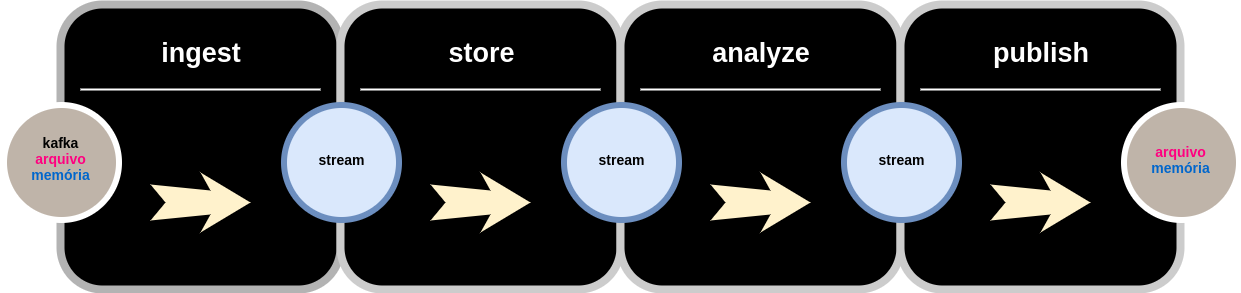
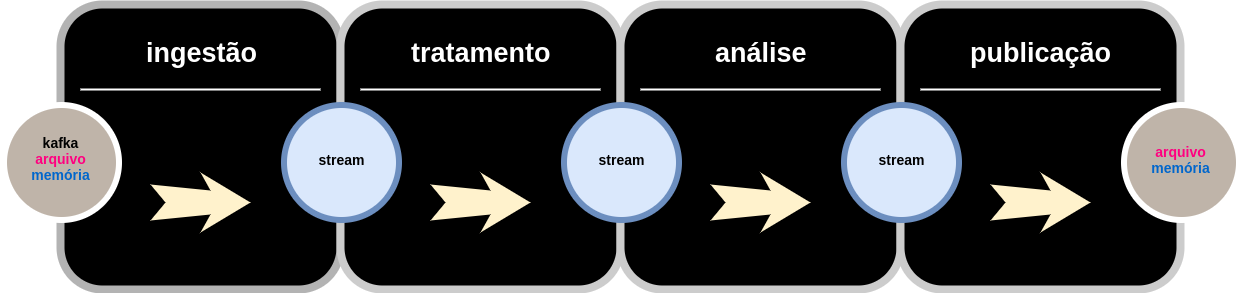
Reorder

diff --git a/editaveis/4_project.tex b/editaveis/4_project.tex
@@ -107,23 +107,25 @@ mas caso seja desejado o uso de outra estratégia, basta implementar um novo
 
 A Figura \ref{fig:shock} ilustra o uso do Shock, utilizando como exemplo uma
 aplicação de cidades inteligentes desenvolvida pelo time do
-InterSCity\footnote{\url{https://gitlab.com/smart-city-software-platform/external-resources/tree/master/bus}}.
-Essa aplicação disponibiliza as coordenadas, o tempo, o índice e a linha de
+InterSCity\footnote{\url{https://gitlab.com/smart-city-software-platform/external-resources/tree/master/bus}},
+que disponibiliza dados como as coordenadas, o tempo, o índice e a linha de
 alguns ônibus de São Paulo. Imaginando que seja desejado a criação de uma nova
 informação a partir dos dados dos ônibus, como a \textit{velocidade}, o fluxo
 de uso com o Shock poderia ser: (1) um cliente que deseje utilizar o serviço
-de processamentos do InterScity analisa as funções que o Shock disponibiliza
-para criação do \textit{stream}, e constrói o \textit{stream} desejado através
-dessas funções - via Kafka. Os recursos IoT (3) publicam no Resource Adaptor a
-chegada de novos dados de ônibus. O Resource Adaptor (4) publica os novos dados
-em um tópico específico no Kafka para que sejam recebidos pelo Shock, que os (5)
-recebe nos \textit{streams} configurados para ingerir dados naquele tópico, e
-os processa através do \textit{pipeline} construído no Passo 2. Por fim, após o
+de processamentos do InterSCity analisa as funções que o Shock disponibiliza
+para criação do \textit{stream}, e (2) constrói o \textit{stream} desejado através
+dessas funções, via Kafka. Os recursos IoT (3) publicam no Resource Adaptor a
+chegada de novos dados de ônibus, para que esses dados sejam (4) publicados em
+um tópico específico do Kafka pelo Resource Adaptor. Após serem disponibilizados
+no Kafka, os dados ficam disponíveis para serem utilizados pelo Shock, que os (5)
+recebe nos \textit{streams} configurados para ingerir dados, e os processa
+através do \textit{pipeline} construído no Passo 2. Por fim, após o
 processamento dos dados, o Shock pode (6) disponibilizar os resultados do
 processamento, que pode ser reaproveitado por aplicações terceiras.
 
 Do ponto de vista da implementação, utilizamos no Shock a arquitetura de camadas
-\textit{ingest, store, analyze} e \textit{publish}, apresentada na Figura
+\textit{ingest, store, analyze} e \textit{publish}\footnote{Utilizaremos os
+termos traduzidos dessa arquitetura.}, apresentada na Figura
 \ref{fig:ingeststore}, que criamos para o Shock. Essa arquitetura é baseada
 em arquiteturas mais difundidas, como a \textit{ingest, store, analyze} e
 \textit{visualize}, utilizada na plataforma Google Cloud
@@ -131,8 +133,8 @@ Platform\footnote{\url{https://cloud.google.com/solutions/data-lifecycle-cloud-p
 e a arquitetura \textit{collecton tier, message queuing tier, analysis tier,
 in-memory data store} e \textit{data access tier}, explicada em
 \citeonline{psaltis2017streaming}. No Shock, cada uma dessas camadas são
-classificadas como \textit{stages} de um \textit{stream}, podendo um
-\textit{stream} ter no máximo 4 \textit{stages}.
+classificadas como estágios de um \textit{stream}, podendo um
+\textit{stream} ter no máximo 4 estágios.
 
 Diferente dos outros serviços da plataforma, as aplicações clientes podem interagir
 com o Shock através de uma API fornecida via o Kafka. Assim, as aplicações enviam
@@ -152,7 +154,7 @@ deve ser enviada caso queira-se o registro de um estágio de ingestão no
   \label{fig:ingeststore}
 \end{figure}
 
-O primeiro estágio de um \textit{stream}, \textit{\textbf{ingest}}, trata-se da
+O primeiro estágio de um \textit{stream}, a \textit{\textbf{ingestão}}, trata-se da
 ingestão dos dados a partir de alguma fonte, como algum tópico do Kafka, ou
 algum arquivo novo. Atualmente o Shock fornece três tipos diferentes de
 ingestão: ingestão via tópico do Kafka, ingestão via arquivo (Parquet e JSON)
@@ -166,20 +168,20 @@ de duas estratégias de ingestão disponíveis no Shock.
   Ingestão de dados no Shock via \textit{socket} e Kafka.
   }]{editaveis/arquivos/ingestion.py}
 
-O segundo estágio de um \textit{stream}, \textit{\textbf{setup}}, tem o papel
+O segundo estágio de um \textit{stream}, de \textit{\textbf{preparo}}, tem o papel
 de ajuste e limpeza dos dados para que sejam utilizados pelos \textit{streams}
-sem maiores complicações. Um exemplo típico é o uso de um \textit{stage} de
-\textit{setup} que faça \textit{cast} de dados, quando valores estão como
+sem maiores complicações. Um exemplo típico é o uso de um estágio de preparo
+que faça \textit{cast} de dados, quando valores estão como
 \textit{string} quando são necessários valores \textit{double}. Atualmente,
-o Shock apresenta somente \textit{setups} de \textit{cast}, que são essenciais
-no uso do InterSCity e de consumo do Kafka, e estão apresentados na Listagem
+o Shock apresenta somente preparo de dados via \textit{cast}, que são essenciais
+no uso do InterSCity e de consumo do Kafka, apresentados na Listagem
 \ref{lst:setup}.
 
 \lstinputlisting[float,floatplacement=H,label={lst:setup},caption={
   Tratamento de dados no Shock via \textit{cast}.
 }]{editaveis/arquivos/store.py}
 
-O terceiro estágio de um \textit{stream}, \textit{\textbf{analyze}}, é o
+O terceiro estágio de um \textit{stream}, de \textit{\textbf{análise}}, é o
 estágio principal do processamento, e permite filtros, agregações e cálculos.
 No Shock, a etapa de análise dos dados recebe como entrada um \textit{stream}
 de dados e devolve um \textit{stream} transformado. Uma aplicação que deseje
@@ -187,26 +189,26 @@ utilizar a operação de filtro no \textit{stream} \textit{mystream} com a final
 de filtrar os valores de \textit{air\_quality} iguais a 31, deve fazer uma
 requisição no Kafka com o conteúdo \small{\textbf{processing;\{"stream": "mystream",
 "shock\_action": "streamFilter", "query": "select * from air\_quality where
-'value' == 31"\}}}. Algumas possibilidades de \textit{stages} do tipo
-\textit{analyze} estão contidos na Listagem \ref{lst:analyze}.
+'value' == 31"\}}}. Algumas possibilidades de estágios de análise
+estão contidos na Listagem \ref{lst:analyze}.
 
 \lstinputlisting[float,floatplacement=H,label={lst:analyze},caption={
   Operações de análise de dados no Shock.
 }]{editaveis/arquivos/processing.py}
 
-O último estágio de um \textit{stream}, \textit{\textbf{publish}}, é o estágio
+O último estágio de um \textit{stream}, de \textit{\textbf{publicação}}, é o estágio
 de apuração do processamento, retornando os dados necessários para o cliente.
-O Shock atualmente permite a publicação via arquivo, memória e console, e após o
+O Shock atualmente permite a publicação via arquivo, memória e \textit{console}, e após o
 lançamento da versão 2.2 do Spark, permitirá a publicação via Kafka. A
 publicação via arquivo é limitada, pois não permite a publicação em um servidor
 externo. A publicação via memória também não permite, mas é interessante pois
 o conteúdo passa a estar disponível para ser requisitado via SparkSession,
-permitindo consultas com síntaxe SQL. Por fim, a publicação via \textit{console} está
+permitindo consultas com sintaxe SQL. Por fim, a publicação via \textit{console} está
 presente somente para fins de desenvolvimento, mas é possível que ocorra uma
 combinação com outras ferramentas que leiam da saída padrão. Categorizamos
 no Shock o nome \textit{sink} para as diferentes estratégias de publicação,
 que é o nome utilizado pelo Spark. A Listagem \ref{lst:publish} apresenta as
-estratégias de publicação em console, Parquet e memória.
+estratégias de publicação em \textit{console}, Parquet e memória.
 
 \lstinputlisting[float,floatplacement=H,label={lst:publish},caption={
   Estratégias de publicação de resultados presentes no Shock.

diff --git a/editaveis/5_exemplo.tex b/editaveis/5_exemplo.tex
@@ -16,13 +16,14 @@ fornece um conjunto de funcionalidades que permitem ao usuário final configurar
 a atuação dos \textit{streams}, semelhante a outros serviços existentes,
 como o Amazon AWS\footnote{\url{https://aws.amazon.com/kinesis/analytics/}}.
 Um usuário que deseje interagir com o Shock e o InterSCity deve
-(i) configurar um \textit{stream} novo com os
-parâmetros desejados; (ii) criar esse \textit{stream} no Shock; (iii) injetar
-esse \textit{stream} no Shock; (iv) e iniciar o processamento do
-\textit{stream}. O Forensic então abstrai esses 4 passos, facilitando o uso
-das ferramentas e da plataforma. A Figura \ref{fig:forensicparams} apresenta
+(1) configurar um \textit{stream} novo com os
+parâmetros desejados; (2) criar esse \textit{stream} no Shock; (3) injetar
+esse \textit{stream} no Shock; (4) e iniciar o processamento do
+\textit{stream}. O Forensic abstrai esses 4 passos, facilitando o uso
+das ferramentas e da plataforma, aproximando usuários finais que não tenham
+grande conhecimento do código-fonte do Shock. A Figura \ref{fig:forensicparams} apresenta
 a página de visualização e edição de um \textit{stream}, onde é possível
-conferir os parâmetros configurados para cada estágio do \textit{stream}.
+conferir os parâmetros configurados para cada estágio.
 
 \begin{figure}
   \centering
@@ -69,13 +70,13 @@ possibilitando o registro de recursos e o envio dos dados.
 O terceiro passo, de configuração do \textit{stream}, é feito através do Forensic.
 Um \textit{stream} deve ser criado na interface, e configurado para uso dos
 estágios \textit{Kafka Ingestion}, \textit{Kafka Cast} e \textit{Filter}.
-O quarto estágio, de \textit{publish}, é mais flexível, e qualquer
+O estágio de publicação é mais flexível, e qualquer
 estratégia disponível no Forensic serve para esse caso de uso. O Forensic
 apresenta uma página de alertas, que é populada via um \textit{flush}
 específico apresentado na Listagem \ref{lst:flush1}. Quando esse
 \textit{flush} é acionado, o Shock organiza um \textit{job}
 que lê de um repositório específico no formato Parquet, e publica no Forensic
-os dados via \textit{websocket}.
+via \textit{websocket}.
 
 \lstinputlisting[float,label={lst:flush1},floatplacement=H,language=elixir,caption={Consumo dos dados via \textit{websocket}
 caso o evento seja \textit{new\_report}.}]{editaveis/arquivos/channel.ex}
@@ -144,7 +145,10 @@ publicação. A ligação entre os dois \textit{streams} ocorre quando o primeir
 \textit{stream} ingere esses resultados como entrada. O valor dos parâmetros
 utilizados no primeiro \textit{stream} estão apresentados na Tabela
 \ref{tab:case2-1}, e os parâmetros do segundo \textit{stream} na Tabela
-\ref{tab:case2-2}.
+\ref{tab:case2-2}. Após a configuração dos parâmetros e transferência das
+configurações para o Shock, semelhante ao ocorrido no caso de uso anterior,
+os dois \textit{streams} começam o processamento dos dados, retornando para o
+Forensic a média de bicicletas disponíveis na região.
 
 \begin{table}[]
     \centering
@@ -182,7 +186,3 @@ utilizados no primeiro \textit{stream} estão apresentados na Tabela
   \label{fig:case2}
 \end{figure}
 
-Após a configuração dos parâmetros e transferência das configurações para o
-Shock, semelhante ao ocorrido no caso de uso anterior, os dois \textit{streams}
-começam o processamento dos dados, retornando para o Forensic a média de
-bicicletas disponíveis na região.

diff --git a/editaveis/6_consideracoes.tex b/editaveis/6_consideracoes.tex
@@ -7,7 +7,7 @@ para processamento de seus dados. Juntamente com o novo serviço, desenvolvemos
 uma aplicação que abstrai as ferramentas de \textit{Big Data} utilizadas pelo
 projeto, e que fornece meios para que outras aplicações de cidades inteligentes
 requisitem tarefas para serem processadas pela plataforma. Com a incorporação
-dos resultados que desenvolvemos o InterSCity passa então a poder atuar em
+dos resultados que desenvolvemos, o InterSCity passa a poder atuar em
 operações com maior massa de dados e a fornecer processamento de dados para
 terceiros através da plataforma.
 
@@ -27,13 +27,19 @@ elas:
     \item \textbf{Utilização dos \textit{data frames}:} A utilização dos
         \textit{data frames} possibilitou o uso de síntaxe SQL, de menor
         complexidade que a manipulação de \textit{RDDs};
-    \item \textbf{Múltiplos \textit{streams}:} Mudamos a API de \textit{stream}
-        para fazer uso dos \textit{streams} estruturados, que possibilitam o
-        uso de \textit{streams} múltiplos, o que possibilita que uma instância
-        do serviço de processamento possa ser utilizado por mais de um usuário.
+    \item \textbf{Múltiplos \textit{streams}:} Mudamos a API de \textit{streams}
+        para que fosse feito o uso de \textit{streams} estruturados, que
+        possibilitam o uso de \textit{streams} múltiplos, adicionando ao
+        InterSCity a possibilidade de, com apenas uma instância do ecossistema
+        da plataforma, servir processamento de dados para vários usuários.
 \end{itemize}
 
 Além das novas funcionalidades, a partir do desenvolvimento deste TCC, foram
 feitas outras contribuições, como (i) a criação de um novo \textit{script} de
 coleta de dados, que consome a API de estações de bicicleta; e (ii) conserto
 de um \textit{script} que ingere dados sobre a qualidade do ar.
+
+Do ponto de vista das limitações, destacamos os fluxos alternativos do Shock,
+que não receberam tanta atenção. Não é possível, por exemplo, a edição de um
+\textit{stream} já editado, ou a abortagem do processamento de um
+\textit{stream}. 
